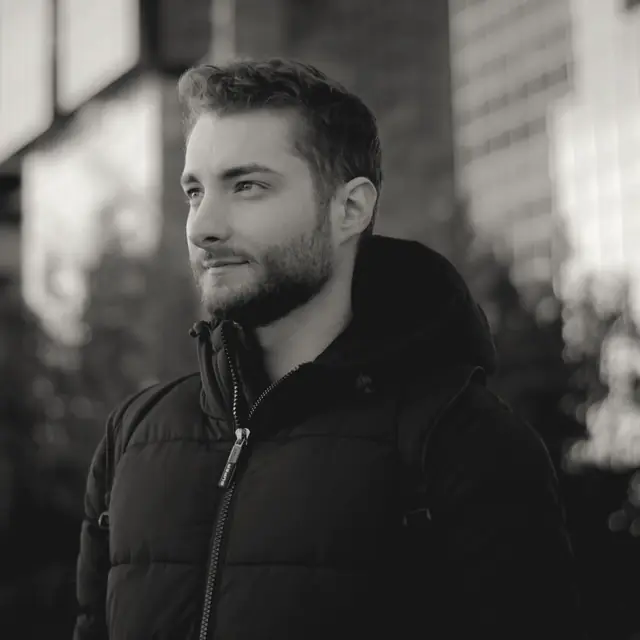
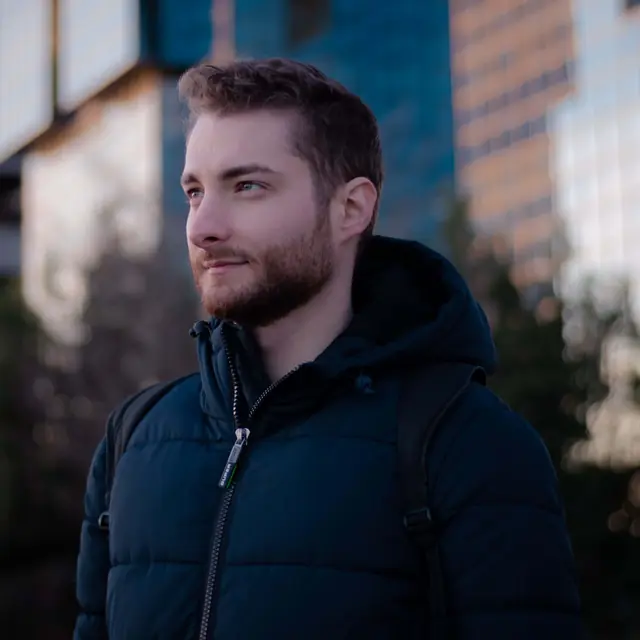
Use the portrait in natural colour

diff --git a/site/styles.css b/site/styles.css
@@ -24,14 +24,14 @@
     color-scheme: dark;
     --bg: #141312; --surface: #1D1C1A; --text: #EDEAE3; --muted: #A3A098;
     --accent: #FF5A47; --accent-text: #FF7B6B; --line: #2E2C29;
-    --field-ink: 237, 234, 227; --field-ink-a: .10; --field-red: 255, 90, 71; --photo: brightness(.85);
+    --field-ink: 237, 234, 227; --field-ink-a: .10; --field-red: 255, 90, 71;
   }
 }
 :root[data-theme="dark"] {
   color-scheme: dark;
   --bg: #141312; --surface: #1D1C1A; --text: #EDEAE3; --muted: #A3A098;
   --accent: #FF5A47; --accent-text: #FF7B6B; --line: #2E2C29;
-  --field-ink: 237, 234, 227; --field-ink-a: .10; --field-red: 255, 90, 71; --photo: brightness(.85);
+  --field-ink: 237, 234, 227; --field-ink-a: .10; --field-red: 255, 90, 71;
 }
 
 *, *::before, *::after { box-sizing: border-box; }
@@ -169,7 +169,7 @@ h2 { font-size: clamp(1.5rem, 3vw, 2rem); font-weight: 700; line-height: 1.15; l
 
 .about { display: grid; gap: var(--s5); align-items: start; }
 @media (min-width: 900px) { .about { grid-template-columns: 1fr 280px; gap: var(--s6); } }
-.portrait { display: block; width: 240px; max-width: 100%; height: auto; border: 1px solid var(--text); filter: var(--photo, none); }
+.portrait { display: block; width: 240px; max-width: 100%; height: auto; border: 1px solid var(--text); }
 @media (min-width: 900px) { .portrait { width: 280px; } }
 
 .work { display: grid; gap: var(--s5); }
